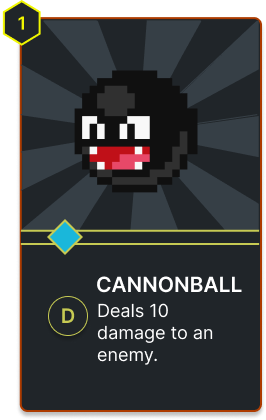
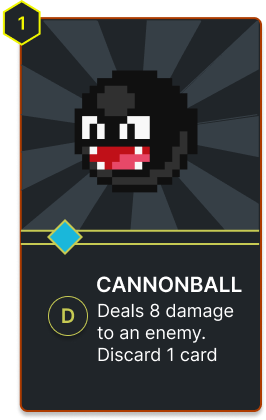
Feat: Healing and Reload cards work properly. Majority of combo cards functionality work

Changed region(s): [[0.3609, 0.7119, 0.8722, 0.8667]]

diff --git a/public/scenes/BattleScene.js b/public/scenes/BattleScene.js
@@ -224,12 +224,7 @@ export class BattleScene extends Phaser.Scene {
         character.setTint(0xff0000);
         let damage_num = this.add.text(0,0, "-" + damage, {color: "red", fontSize: "30px"});
         damage_num.setPosition(character.x + 40, character.y - 80);
-        this.time.delayedCall(450, this.damage_event, [character, damage_num], this);
-    }
-
-    damage_event(character, damage_num){
-        character.clearTint();
-        damage_num.destroy();
+        this.time.delayedCall(450, this.clearNumAndTintEvent, [character, damage_num], this);
     }
 
     healing_calculation(character, healing, modifiers) {
@@ -237,30 +232,42 @@ export class BattleScene extends Phaser.Scene {
         for (let modifier of modifiers) {
             healing = healing * modifier;
         }
-        console.log(healing);
         character.health += healing;
-        console.log(character.health);
+        // dont go over the limit
+        if (character.health > character.maxHealth) {
+            character.health = character.maxHealth;
+        }
+        console.log(healing);
         character.setTint(0x90EE90);
         let healing_num = this.add.text(0, 0, "+" + healing, {color: "#90EE90", fontSize: "30px"});
         healing_num.setPosition(character.x - 40, character.y - 80);
-        this.time.delayedCall(450, this.healing_event, [cahracter, healing_num], this);
+        this.time.delayedCall(450, this.clearNumAndTintEvent, [character, healing_num], this);
     }
 
-    healing_event(character, healing_num) {
+    armour_calculation(character, armour) {
+        character.armour += armour;
+        character.setTint(0x808080);
+        let armour_num = this.add.text(0, 0, "+" + armour, {color: "#808080", fontSize: "30px"});
+        armour_num.setPosition(character.x - 40, character.y - 80);
+        this.time.delayedCall(450, this.clearNumAndTintEvent, [character, armour_num], this);
+        console.log("Player's armour: " + character.armour);
+    } 
+
+    clearNumAndTintEvent(character, num) {
         character.clearTint();
-        healing_num.destroy();
+        num.destroy();
     }
 
     loadCards() {
         // damage cards
-        let cannonball = new DamageCard("cannonball", 1, "damage", {damage: 10, target: "single"}, "blue", this, 0, 0, "cannonball");
+        let cannonball = new DamageCard("cannonball", 1, "damage", {damage: 8, target: "single", discard: 1}, "blue", this, 0, 0, "cannonball");
         let grenade = new DamageCard("grenade", 1, "damage", {damage: 3, target: "all"}, "white", this, 0, 0, "grenade");
         let high_noon = new DamageCard("high_noon", 1, "damage", {damage: 5, target: "single"}, "white", this, 0, 0, "high_noon");
         let fire_rain = new DamageCard("fire_rain", 3, "damage", {damage: 8, target: "random", randomAmount: 3, discard: 1}, "blue", this, 0, 0, "fire_rain");
         let minigun = new DamageCard("minigun", 6, "damage", {damage: 4, target: "random", randomAmount: 8}, "orange", this, 0, 0, "minigun");
         let launcher = new DamageCard("launcher", 2, "damage", {damage: 6, target: "all"}, "blue", this, 0, 0, "launcher");
         let ballistic = new DamageCard("ballistic", 1, "damage", {damage: this.player.armour, target: "single"}, "white", this, 0, 0, "ballistic");
-        let reinforce = new DamageCard("reinforce", 2, "damage", {damage: 5, target: "single"}, "white", this, 0, 0, "reinforce");
+        let reinforce = new DamageCard("reinforce", 2, "damage", {damage: 5, target: "single", armour: 5}, "white", this, 0, 0, "reinforce");
         let blast = new DamageCard("blast", 2, "damage", {damage: 10, target: "single", cards: 1}, "blue", this, 0, 0, "blast");
         let missile = new DamageCard("missile", 3, "damage", {damage: 4, target: "random", randomAmount: 4}, "purple", this, 0, 0, "missile");
         let molotov = new DamageCard("molotov", 3, "damage", {damage: 10, target: "all", discard: 1}, "purple", this, 0, 0, "molotov");
@@ -283,7 +290,7 @@ export class BattleScene extends Phaser.Scene {
         let pinpoint = new ComboCard("pinpoint", 1, "combo", {target: "damage", effect: "multiply", amount: 3}, "blue", this, 0, 0, "pinpoint");
         let bayonet = new ComboCard("bayonet", 2, "combo", {target: "damage", effect: "addition", amount: 6, sideEffects: 8}, "blue", this, 0, 0, "bayonet");
         let load = new ComboCard("load", 2, "combo", {cards: 2, discard: 1}, "blue", this, 0, 0, "load");
-        let nanotech = new ComboCard("nanotech", 3, "combo", {target: "healing", effect: "multiply", amount: 2}, "purple", this, 0, 0, "nanotech");
+        let nanotech = new ComboCard("nanotech", 1, "combo", {target: "healing", effect: "multiply", amount: 2}, "purple", this, 0, 0, "nanotech");
 
         this.player.deckArray.push(headshot);
         this.player.deckArray.push(ricochet);
@@ -294,7 +301,7 @@ export class BattleScene extends Phaser.Scene {
        
         // reload cards
         let reload = new ReloadCard("reload", 0, "reload", {amount: 2}, "white", this, 0, 0, "reload");
-        let overload = new ReloadCard("overload", 0, "reload", {amount: 4, sideEffects: 10}, "purple", this, 0, 0, "overload");
+        let overload = new ReloadCard("overload", 0, "reload", {amount: 4, sideEffects: 10, overload: true}, "purple", this, 0, 0, "overload");
         let lock_and_load = new ReloadCard("lock_and_load", 0, "reload", {amount: 2, cards: 2}, "blue", this, 0, 0, "lock_and_load");
         let bandolier = new ReloadCard("bandolier", 0, "reload", {amount: 4}, "blue", this, 0, 0, "bandolier");
         let holster = new ReloadCard("holster", 0, "reload", {amount: 1, cards: 1}, "white", this, 0, 0, "holster");
@@ -309,11 +316,11 @@ export class BattleScene extends Phaser.Scene {
 
         // healing cards
         let medkit = new HealingCard("medkit", 0, "healing", {target: "health", amount: 7}, "white", this, 0, 0, "medkit");
-        let kevlar = new HealingCard("kevlar", 1, "healing", {target: "armour", amount: 6}, "white", this, 0, 0, "kevlar");
+        let kevlar = new HealingCard("kevlar", 1, "healing", {target: "armour", amount: 5}, "white", this, 0, 0, "kevlar");
         let stim_pack = new HealingCard("stim_pack", 1, "healing", {target: "health", amount: 14}, "white", this, 0, 0, "stim_pack");
         let armour_plate = new HealingCard("armour_plate", 2, "healing", {target: "armour", amount: 10}, "blue", this, 0, 0, "armour_plate");
         let bourbon = new HealingCard("bourbon", 2, "healing", {target: "health", amount: 30, discard: 1}, "purple", this, 0, 0, "bourbon");
-        let morphine = new HealingCard("morphine", 2, "healing", {target: "health", amount: 8, otherTarget: "armour", otherAmount: 8}, "blue", this, 0, 0, "morphine");
+        let morphine = new HealingCard("morphine", 2, "healing", {target: "health", amount: 8, cards: 1}, "blue", this, 0, 0, "morphine");
 
         this.player.deckArray.push(medkit);
         this.player.deckArray.push(kevlar);

diff --git a/public/helpers/classes/cards/damageCard.js b/public/helpers/classes/cards/damageCard.js
@@ -5,6 +5,8 @@ export default class DamageCard extends HandCard {
     constructor(name, cost, cardType, effect, rarity, scene, x, y, sprite) {
         super(name, cost, cardType, effect, rarity, scene, x, y, sprite);
         this.tooltip = new Tooltip(scene, x+this.displayWidth, y, this.getLabel());
+        this.originalDamage = this.effect.damage;
+        this.originalTarget = this.effect.target;
         scene.add.existing(this);
         this.cardInHand(scene);
     }
@@ -15,8 +17,9 @@ export default class DamageCard extends HandCard {
 
     activateCard(scene) {
         let card = this;
+        console.log(card);
         if (this.effect.target === "single") {
-            for (let enemy of scene.enemy.enemyOnScene) {
+            for (let enemy of scene.enemies) {
                 // remove event listener from enemy
                 enemy.removeListener("pointerdown", enemy.clickHandler);
 
@@ -27,20 +30,18 @@ export default class DamageCard extends HandCard {
                 enemy.clickHandler = this.damageEnemy.bind(this, enemy, scene);
                 enemy.on("pointerdown", enemy.clickHandler);
             }
-
         } else if (this.effect.target === "all") {
-            for (let enemy of scene.enemy.enemyOnScene) {
-                scene.damage_calculation(enemy, card.effect.damage, [1]);
-            }
-
+            this.dealDamageToAllEnemies(scene);
+            this.resetCard();
         } else if (this.effect.target === "random") {
             for (let i=0; i < this.effect.randomAmount; i++) {
-                let randomIndex = Math.floor(Math.random() * scene.enemy.enemyOnScene.length);
-                let randomEnemy = scene.enemy.enemyOnScene[randomIndex];
+                let randomIndex = Math.floor(Math.random() * scene.enemies.length);
+                let randomEnemy = scene.enemies[randomIndex];
 
-                scene.time.delayedCall(250, scene.damage_calculation, [randomEnemy, this.effect.damage, [1]], scene);
+                scene.damage_calculation(randomEnemy, this.effect.damage, [1]);
                 // check if enemy died between each attack to update list
             }
+            this.resetCard();
         }
         // check enemy dead here
 
@@ -51,24 +52,43 @@ export default class DamageCard extends HandCard {
         if ("discard" in this.effect) {
             scene.player.discardCard(this.effect.discard, scene);
         }
+
+        if ("armour" in this.effect) {
+            scene.armour_calculation(scene.player, this.effect.armour);
+        }
+        
     }
 
     damageEnemy(enemy, scene) {
         if (enemy.isBeingClicked) {
             scene.damage_calculation(enemy, this.effect.damage, [1]);
             enemy.isBeingClicked = false;
+            this.resetCard();
         }
 
-        for (let enemy of scene.enemy.enemyOnScene) {
+        for (let enemy of scene.enemies) {
             enemy.isBeingClicked = false;
             enemy.clickHandler = this.damageEnemy.bind(this, enemy, scene);
             enemy.on("pointerdown", enemy.clickHandler);
         }
+
+    }
+
+    // if being comboed, will reset 
+    resetCard() {
+        this.effect.damage = this.originalDamage;
+        this.effect.target = this.originalTarget;
+    }
+
+    dealDamageToAllEnemies(scene) {
+        for (let enemy of scene.enemies) {
+            scene.damage_calculation(enemy, this.effect.damage, [1]);
+        }
+
     }
 
     getLabel() {
-        return "Damage: Inflicted damage is on the enemy's health.";
+        return "Damage: It deals damage...DUH";
     }
-    
 
 }

diff --git a/public/helpers/classes/cards/comboCard.js b/public/helpers/classes/cards/comboCard.js
@@ -47,39 +47,35 @@ export default class ComboCard extends HandCard {
             scene.player.discardCard(this.effect.discard, scene);
         }
 
-        // enable cards to be interactable
-        scene.player.enableDragOnCards();
     }
 
     comboCards(card, scene) {
         // check if combo card is targetting damage cards
         if ((card.isBeingCombo && this.effect.target === "damage") && (card.cardType === this.effect.target)) {
-            // multiply the chosen card's damage
+            // modify the card's damage to the target of the combo
             if (this.effect.effect === "multiply") {
                 card.effect.damage *= this.effect.amount;
-            // add the chosen card's damage
             } else if (this.effect.effect === "addition") {
                 card.effect.damage += this.effect.amount;
-            }
-
-            // convert the chosen card's target to replace single
-            if (this.effect.effect === "convert") {
+            } else if (this.effect.effect === "convert") {
+                // convert single to all
                 card.effect.target = "all";
             }
+            card.isBeingCombo = false;
+            // lightblue
+            card.setTint(0x86C5D8);
 
         // this is just for nanotech
         } else if ((card.isBeingCombo && this.effect.target === "healing") && (card.cardType === this.effect.target)) {
-            console.log("it works");
-            if (this.effect.effect === "multiply") {
-                card.effect.amount *= this.effect.amount;
-                // set the card's effect armour to be the new health amount
-                card.effect.otherTarget = "armour";
-                card.effect.otherAmount = card.effect.amount;
-            }
-        }
+            card.effect.amount *= this.effect.amount;
+            card.isBeingCombo = false;
+            card.setTint(0x86C5D8);
+        } 
         
-        // lightblue
-        card.setTint(0x86C5D8);
+        // remove the event listener from all cards
+        for (let cards of scene.player.handArray) {
+            cards.removeListener("pointerdown", cards.comboHandler);
+        }
 
         // reset the click flag and add back the event listener
         for (let cards of scene.player.handArray) {
@@ -89,6 +85,8 @@ export default class ComboCard extends HandCard {
         }
         
         scene.arrangeCardsInCenter(scene.player.handArray);
+        // enable cards to be interactable
+        scene.player.enableDragOnCards();
     }
 
     getLabel() {

diff --git a/public/helpers/classes/cards/healingCard.js b/public/helpers/classes/cards/healingCard.js
@@ -5,6 +5,8 @@ export default class HealingCard extends HandCard {
     constructor(name, cost, cardType, effect, rarity, scene, x, y, sprite) {
         super(name, cost, cardType, effect, rarity, scene, x, y, sprite);
         this.tooltip = new Tooltip(scene, x+this.displayWidth, y, this.getLabel());
+        this.originalAmount = this.effect.amount;
+        this.originalTarget = this.effect.target;
         scene.add.existing(this);
         this.cardInHand(scene);
     }
@@ -14,23 +16,33 @@ export default class HealingCard extends HandCard {
     } 
 
     activateCard(scene) {
-        if (this.effect.target == "health") {
-            scene.player.setHealth(this.effect.amount);
-            scene.heartext.setText(scene.player.health);
+        if (this.effect.target === "health") {
+            scene.healing_calculation(scene.player, this.effect.amount, [1]);
+        } else if (this.effect.target === "armour") {
+            scene.armour_calculation(scene.player, this.effect.amount);
         }
-        // include bottom when armour is introduced
-        // } else (this.effect.target == "armour") {
-        //     scene.player.setArmour(this.effect.amount);
-        //     scene.armourText.setText(scene.player.armour);
-        // }
+
+        if ("discard" in this.effect) {
+            scene.player.discardCard(this.effect.discard, scene);
+        }
+
+        if ("cards" in this.effect) {
+            scene.player.drawCard(this.effect.cards, scene);
+        }
+
+        this.resetCard();
     }
 
     getLabel() {
-        if (this.effect.target == "armour") {
+        if (this.effect.target === "armour") {
             return "Armour: \nRemoved before health when receiving damage.";
-        } else if (this.effect.target == "health") {
+        } else if (this.effect.target === "health") {
             return "Health: \nIf this reaches zero, you die."
         }
     }    
 
+    resetCard() {
+        this.effect.amount = this.originalAmount;
+        this.effect.target = this.originalTarget;
+    }
 }

diff --git a/public/helpers/classes/cards/reloadCard.js b/public/helpers/classes/cards/reloadCard.js
@@ -16,15 +16,23 @@ export default class ReloadCard extends HandCard {
     // nned to account for next turn side effects
     // such as losing action points next turn
     activateCard(scene) {
-        if (this.effect.sideEffects !== null) {
-            // removing health if its overloading card
-            scene.player.setHealth(this.effect.sideEffects);
-            scene.heartext.setText(scene.player.health);
-            // add function here to kill the player if health goes to 0
+        scene.player.actionPoints += this.effect.amount;
+        if (!("overload" in this.effect) && scene.player.actionPoints > scene.player.maxActionPoints) {
+            scene.player.actionPoints = scene.player.maxActionPoints;
         }
 
-        scene.player.setActionPoints(this.effect.amount);
+        if ("cards" in this.effect) {
+            scene.player.drawCard(this.effect.cards, scene);
+        }
+
+        if ("sideEffects" in this.effect) {
+            scene.damage_calculation(scene.player, this.effect.sideEffects, [1]);
+        }
+
+        console.log(scene.player.actionPoints);
     }
+
+    
 
     getLabel() {
         return "AP: \nAction Points are used when activating a card."

diff --git a/public/helpers/classes/player.js b/public/helpers/classes/player.js
@@ -6,6 +6,7 @@ export default class Player extends Phaser.GameObjects.Sprite {
         super(scene, x, y, sprite, frame);
         this.maxHealth = 50;
         this.health = this.maxHealth;
+        this.armour = 0;
         this.maxActionPoints = 6;
         this.actionPoints = this.maxActionPoints;
         this.handArray = [];
@@ -69,6 +70,11 @@ export default class Player extends Phaser.GameObjects.Sprite {
         // remove the indexes in reverse order not to mess up the loop
         // pushes non-chosen cards to discard pile
         for (let index=indexList.length-1; index >= 0; index--) {
+            // if modified by combo and not kept, revert back to original stats
+            if (this.handArray[indexList[index]].cardType === "healing" || this.handArray[indexList[index]].cardType === "damage") {
+                this.handArray[indexList[index]].resetCard();
+            }
+            
             this.graveYardArray.push(this.handArray[indexList[index]]);
             this.handArray[indexList[index]].setVisible(false);
             this.handArray.splice(indexList[index], 1);
